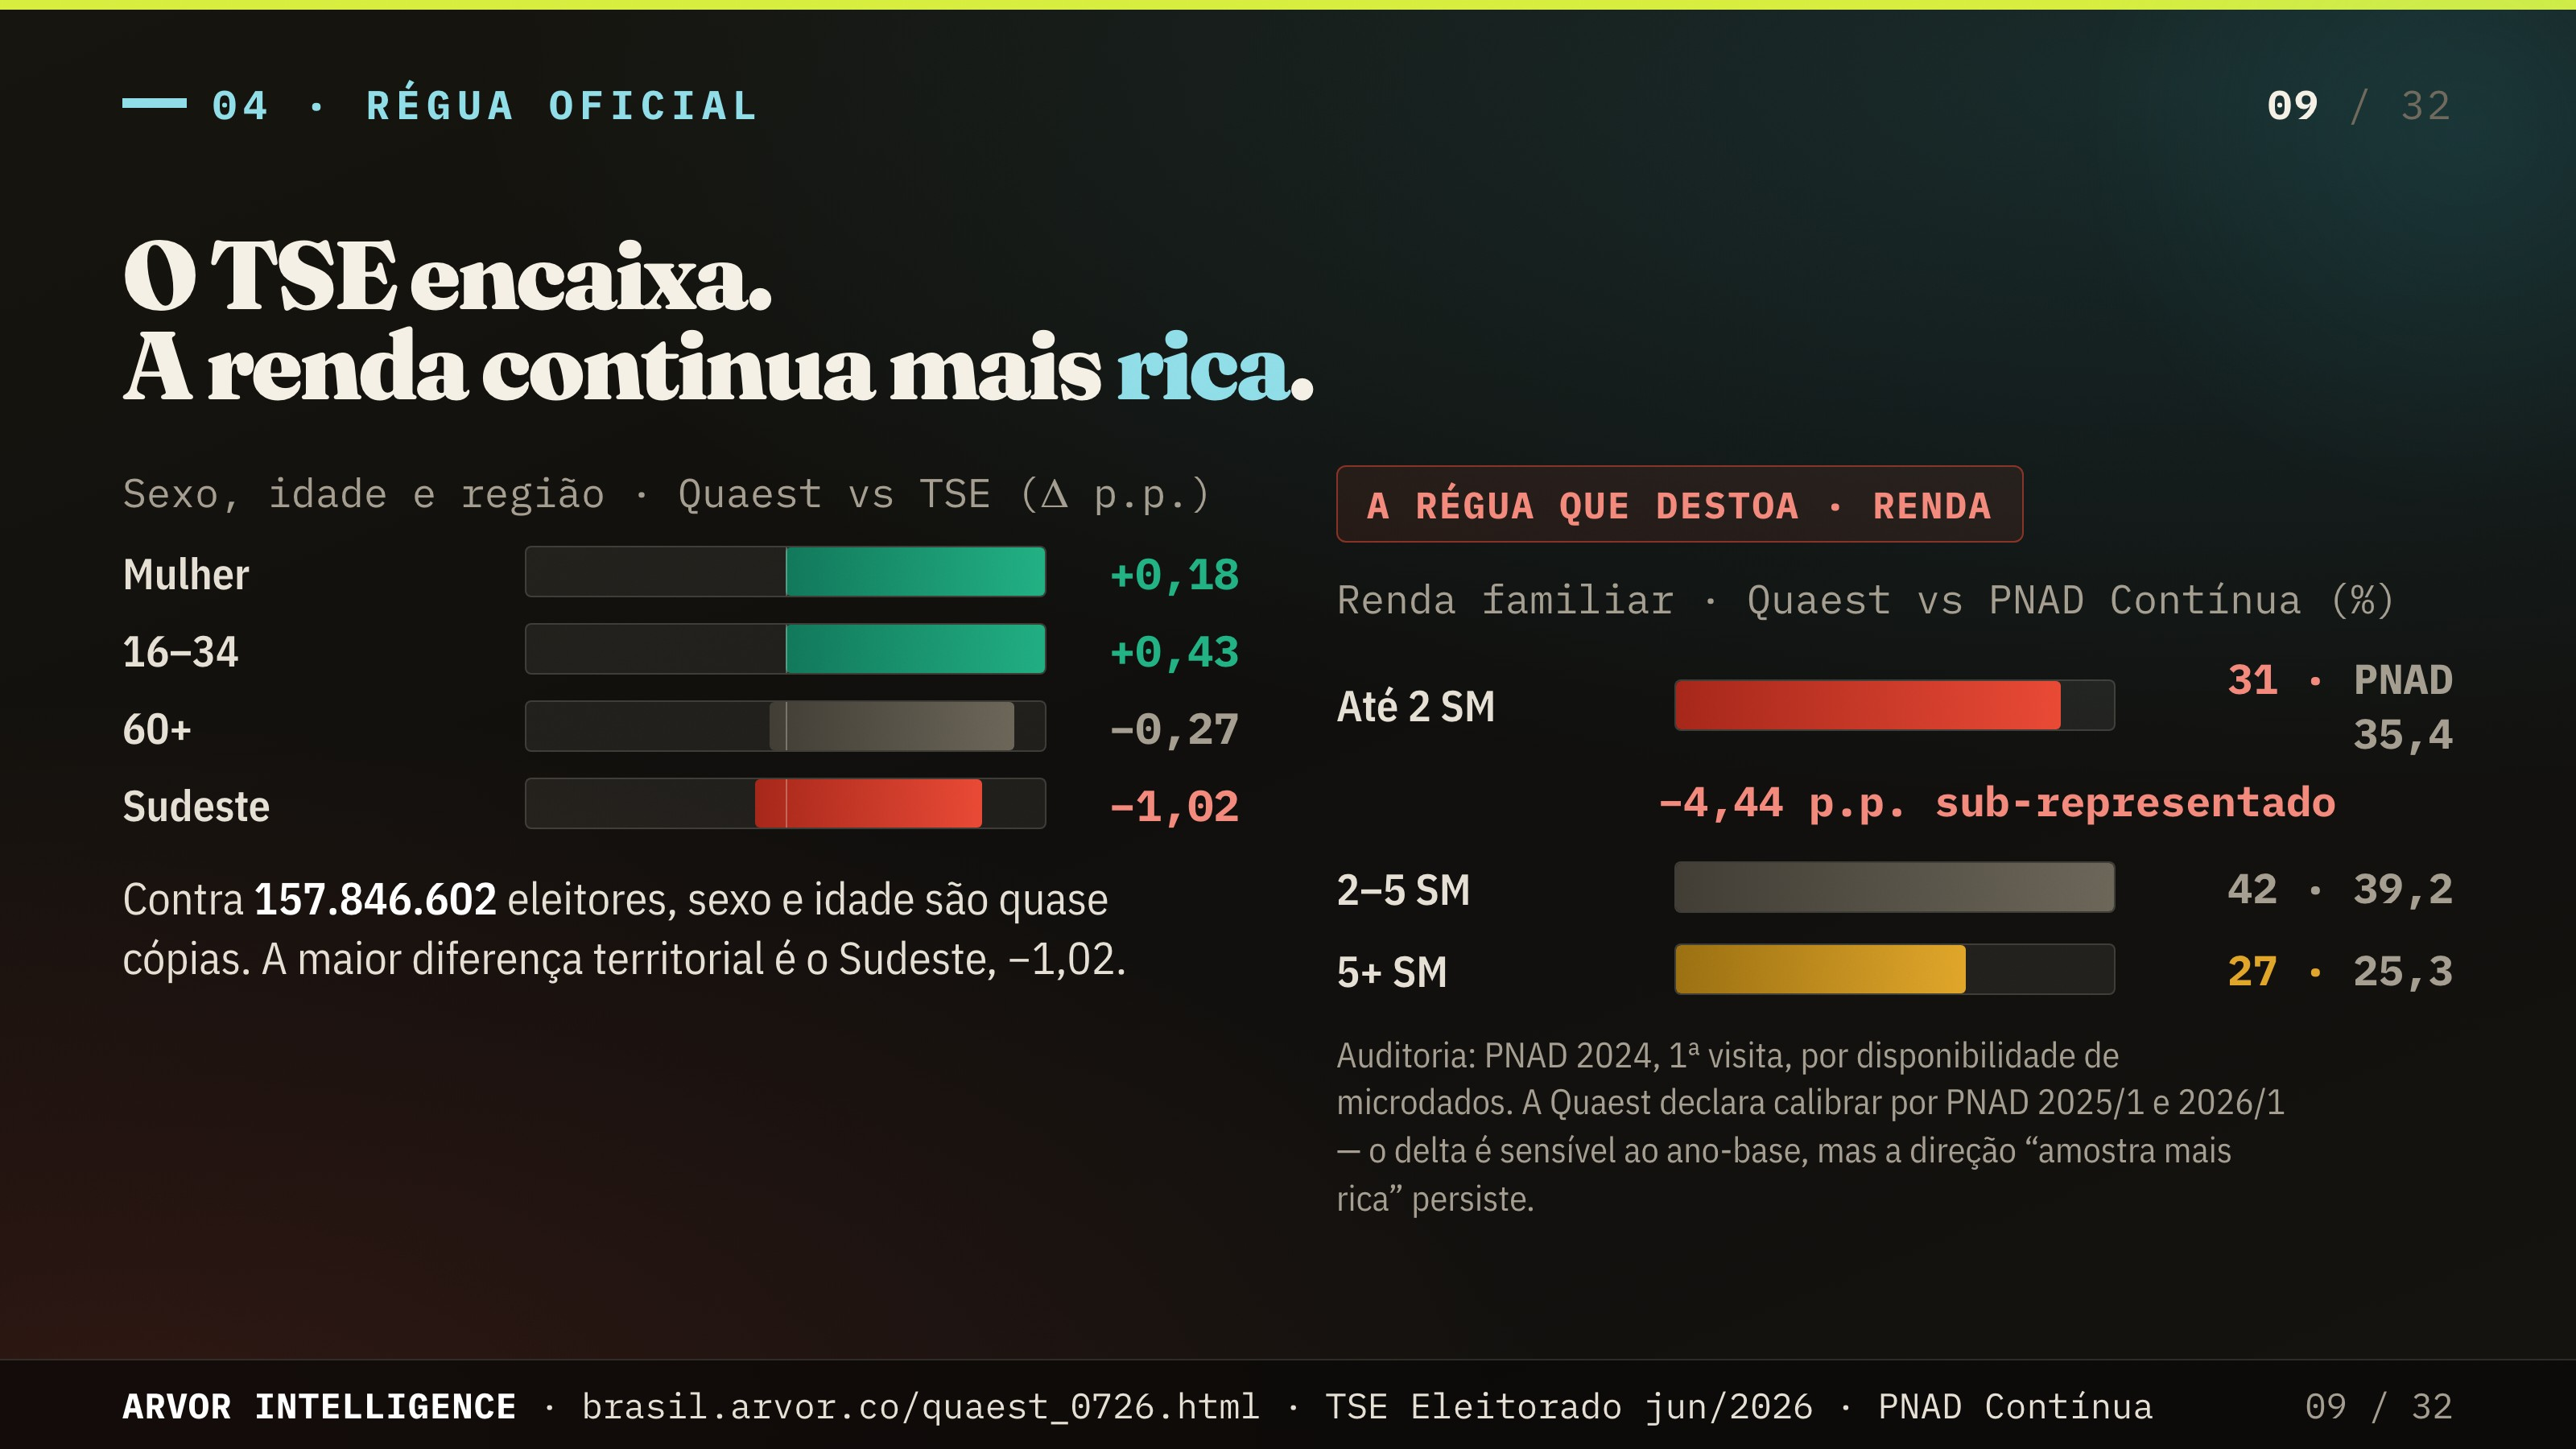
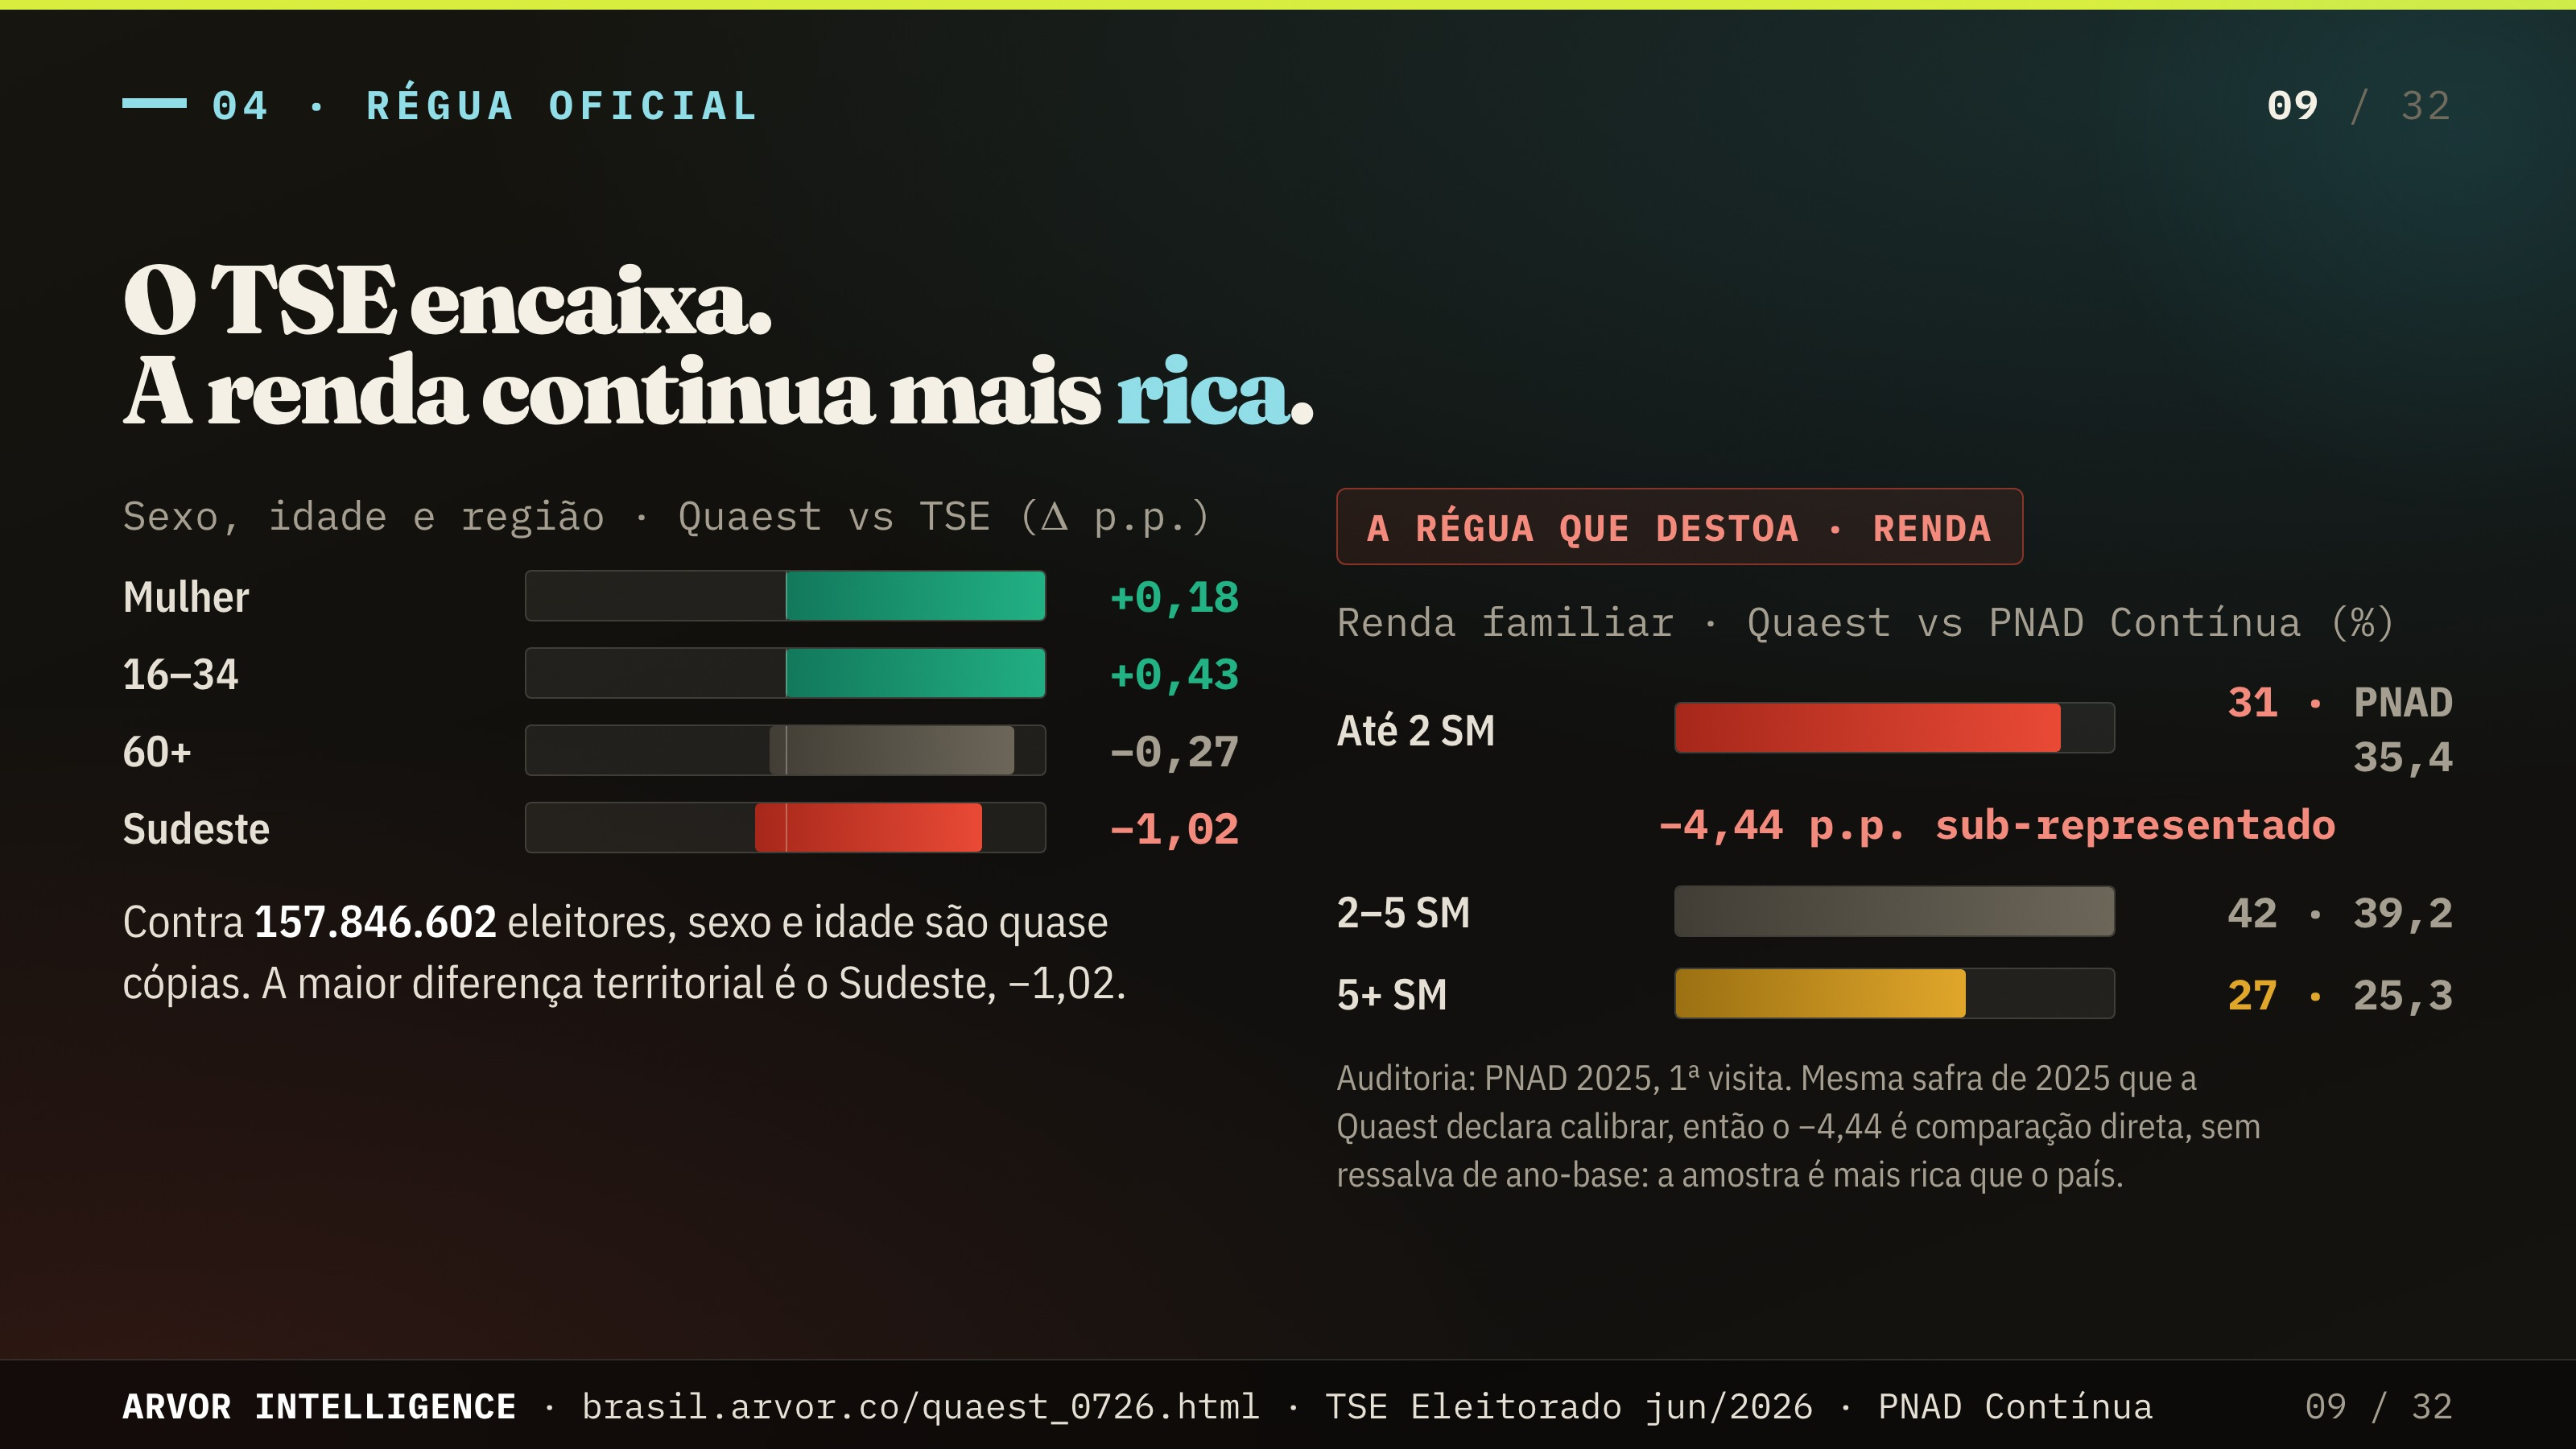
Quaest 07/26: corrigir rótulo do ano-base PNAD (a régua já era 2025)
- benchmark de renda sempre foi calculado sobre a PNADC 2025 v1; o rótulo dizia 2024
- post 9 reescrito sem a falsa ressalva de vintage; caveat do dossiê vira força
  (mesma safra que a Quaest declara calibrar); slides 9-10 re-renderizados
- script deriva reference_year da própria tabela; manifesto incorpora o suplemento
- guarda para metadata ausente no leitor de PDF

Entire-Checkpoint: 0112ab0fae9f

Changed region(s): [[0.0312, 0.3111, 0.9688, 0.6844], [0.5, 0.4667, 0.9688, 0.84], [0.0312, 0.1556, 0.5312, 0.3111]]

diff --git a/docs/quaest_0726_thread.html b/docs/quaest_0726_thread.html
@@ -227,15 +227,15 @@ Veredito calibrado: anomalia registrável, não prova de fraude. Sem a base do s
   <div class="post-label">Post 9/32 · régua oficial · TSE e renda</div>
   <div class="card">
     <div class="frameshell"><iframe class="slideframe" src="quaest_0726_slides.html?slide=9" loading="lazy" title="Slide 09: O TSE encaixa, a renda destoa" scrolling="no"></iframe></div>
-    <div class="copy"><span class="cc">1439 caracteres</span>A régua oficial encaixa em parte e destoa em parte, e as duas coisas contam, então vou dar as duas.
+    <div class="copy"><span class="cc">1399 caracteres</span>A régua oficial encaixa em parte e destoa em parte, e as duas coisas contam, então vou dar as duas.
 
 Contra os 157.846.602 eleitores residentes do painel do TSE, competência junho, o sexo e a idade da amostra Quaest são quase cópias: mulher com diferença de +0,18, faixa de 16 a 34 anos +0,43, faixa 60+ com −0,27. A maior diferença territorial é o Sudeste, com −1,02 ponto. Isso é bom trabalho de campo, e eu registro sem ressalva: o instituto sabe montar cota demográfica.
 
 A régua de renda familiar é outra história. A amostra sub-representa quem ganha até 2 salários mínimos em 4,44 pontos ante a PNAD Contínua, 31% contra 35,4%, e sobra nas faixas mais altas. É, em suma, uma amostra mais rica que o país.
 
-Uma ressalva de rigor minha, porque também audito o auditor: usei a PNAD 2024, 1ª visita, por disponibilidade de microdados; a Quaest declara calibrar por edições de 2025 e 2026. O delta exato é sensível ao ano-base, mas a direção “amostra mais rica” persiste em qualquer base recente, e renda anda junto com voto.
+Um ponto de rigor, porque também audito o auditor: uso a PNAD Contínua anual, 1ª visita, de 2025, a mesma safra que a Quaest declara calibrar na ficha técnica. Não há mais descompasso de ano-base, o 4,44 é comparação direta, mesma régua, e a leitura de amostra mais rica deixa de ter asterisco. Renda anda junto com voto, e agora sem ressalva.
 
-E aqui aparece um duplo padrão que vale nomear. Para a renda, a própria Quaest teria uma régua mais nova que a minha. Ótimo. Então que publique os pesos e as metas de calibração, e a discussão acaba em cinco minutos: eu recalculo com a régua dela e a gente vê quem está certo. É exatamente o que eu peço desde junho, e não veio. Enquanto não vier, a divergência fica sem árbitro, por opção de quem tem o dado.</div>
+E fica de pé o pedido que faço desde junho, agora sem o contra-argumento do ano-base: publiquem os pesos e as metas de calibração. Com a régua no mesmo vintage de 2025, se a Quaest tem número melhor, basta mostrar as metas e eu recalculo em cinco minutos. Enquanto o dado não vem, a divergência fica sem árbitro, por opção de quem tem o dado.</div>
     <button class="copy-btn" type="button" onclick="cp(this)">Copiar texto</button>
   </div>
 </section>

diff --git a/docs/quaest_0726.html b/docs/quaest_0726.html
@@ -365,7 +365,7 @@
         </div>
         <div class="data-note reveal">
           <span class="tag inferencia" style="margin-bottom:8px">Nota de ano-base</span>
-          <p style="margin:0"><strong>Descompasso de edição declarado com transparência:</strong> esta auditoria usa a PNAD Contínua anual, 1ª visita, <strong>2024</strong>, por disponibilidade de microdados com 200 pesos replicados. A ficha técnica da Quaest (relatório, p. 3) declara calibrar por “TSE 2026, PNAD 2026/1, PNAD 2025/1, CENSO 2022” — edições mais recentes. A distribuição de renda em SM pode ter deslocado entre 2024 e 2025/26, então o −4,44 p.p. não é rigorosamente apples-to-apples com a referência que a Quaest diz usar. Sinalizamos o delta como sensível ao ano-base; sem os microdados da Quaest, não há como reponderar o voto.</p>
+          <p style="margin:0"><strong>Mesmo vintage da Quaest, sem ressalva de ano-base:</strong> esta auditoria usa a PNAD Contínua anual, 1ª visita, <strong>2025</strong>, com 200 pesos replicados. A ficha técnica da Quaest (relatório, p. 3) declara calibrar por “TSE 2026, PNAD 2026/1, PNAD 2025/1, CENSO 2022”. Estamos na mesma safra de 2025 que o próprio instituto lista, então o −4,44 p.p. é comparação direta, apples-to-apples, e deixa de carregar o caveat de edição. O que segue faltando é o microdado de calibração da Quaest: sem os pesos e as metas dela, não há como reponderar o voto.</p>
         </div>
       </div>
     </section>
@@ -438,7 +438,7 @@
           <strong>Veredito — resultado que inocenta</strong>
           <p>A renda <strong>não explica o placar</strong>. Reponderar a amostra ao perfil do país move a disputa Lula×Flávio menos de 1 ponto em todo cenário — dentro do ruído do método, e no sentido pró-Lula. Publicamos assim porque o resultado valeria nos dois sentidos: aqui ele encolhe a hipótese da renda em vez de reforçá-la. Caveat honesto: uma dimensão só, sem microdados, sem interação com região ou idade.</p>
         </div>
-        <p class="caption reveal">Alvo PNAD: PNADC anual 1ª visita 2024, 16+ com renda domiciliar válida, deflacionada a abr/2026 (SM R$ 1.621). Contas reproduzíveis em <span class="mono">quaest_0726_rejeicao_reponderacao.json</span>.</p>
+        <p class="caption reveal">Alvo PNAD: PNADC anual 1ª visita 2025, 16+ com renda domiciliar válida, deflacionada a abr/2026 (SM R$ 1.621). Contas reproduzíveis em <span class="mono">quaest_0726_rejeicao_reponderacao.json</span>.</p>
       </div>
     </section>
 

diff --git a/docs/quaest_0726_slides.html b/docs/quaest_0726_slides.html
@@ -520,7 +520,7 @@ svg{display:block;overflow:visible}
           <div class="bar" style="grid-template-columns:190px 1fr 190px"><span class="nm" style="font-size:27px">2–5 SM</span><div class="track"><div class="fill muted" style="width:100%"></div></div><span class="val muted" style="font-size:26px">42 · <span class="dim">39,2</span></span></div>
           <div class="bar" style="grid-template-columns:190px 1fr 190px"><span class="nm" style="font-size:27px">5+ SM</span><div class="track"><div class="fill gold" style="width:66%"></div></div><span class="val gold" style="font-size:26px">27 · <span class="dim">25,3</span></span></div>
         </div>
-        <p class="dim" style="margin-top:20px;font-size:22px;line-height:1.35;max-width:600px">Auditoria: PNAD 2024, 1ª visita, por disponibilidade de microdados. A Quaest declara calibrar por PNAD 2025/1 e 2026/1 — o delta é sensível ao ano-base, mas a direção “amostra mais rica” persiste.</p>
+        <p class="dim" style="margin-top:20px;font-size:22px;line-height:1.35;max-width:600px">Auditoria: PNAD 2025, 1ª visita. Mesma safra de 2025 que a Quaest declara calibrar, então o −4,44 é comparação direta, sem ressalva de ano-base: a amostra é mais rica que o país.</p>
       </div>
     </div>
   </div>
@@ -567,7 +567,7 @@ svg{display:block;overflow:visible}
       </div>
     </div>
   </div>
-  <div class="foot"><span class="brand"><b>ARVOR INTELLIGENCE</b> · brasil.arvor.co/quaest_0726.html · alvo PNADC anual 1ª visita 2024</span><span class="src">10 / 32</span></div>
+  <div class="foot"><span class="brand"><b>ARVOR INTELLIGENCE</b> · brasil.arvor.co/quaest_0726.html · alvo PNADC anual 1ª visita 2025</span><span class="src">10 / 32</span></div>
 </section></div>
 
 <div class="frame" data-n="11"><section class="slide" id="sCAL">

diff --git a/docs/assets/quaest_0726_rejeicao_reponderacao_fragment.html b/docs/assets/quaest_0726_rejeicao_reponderacao_fragment.html
@@ -196,7 +196,7 @@
 
     <p class="foot sans">Perícia Arvor · <a href="https://brasil.arvor.co">brasil.arvor.co</a> ·
       dados e contas reproduzíveis em <span class="mono">quaest_0726_rejeicao_reponderacao.json</span>.
-      Alvo PNAD: PNADC anual 1ª visita 2024, 16+ com renda domiciliar válida, deflacionada a abr/2026 (SM R$ 1.621).</p>
+      Alvo PNAD: PNADC anual 1ª visita 2025, 16+ com renda domiciliar válida, deflacionada a abr/2026 (SM R$ 1.621).</p>
   </div>
 
   <script>

diff --git a/scripts/quaest-july-audit.py b/scripts/quaest-july-audit.py
@@ -241,7 +241,9 @@ def questionnaire_diagnostics() -> dict:
         "expected_question_count": 101,
         "cover_project": "OP093/25 – GENIAL INVESTIMENTOS",
         "cover_month": "JUNHO/2026",
-        "pdf_metadata_title": PdfReader(SOURCE / QUESTIONNAIRE).metadata.title,
+        "pdf_metadata_title": getattr(
+            PdfReader(SOURCE / QUESTIONNAIRE).metadata, "title", None
+        ),
         "template_residue": _count_template_residue(july),
         "typos": {"sm_ja_sabia": july.upper().count("SM, JÁ SABIA")},
         "privacy": {
@@ -354,6 +356,12 @@ def pnad_income() -> dict:
     total = 0.0
     persons = 0
     with sqlite3.connect(PNAD_DB) as connection:
+        reference_years = sorted(
+            int(value)
+            for (value,) in connection.execute(
+                f"SELECT DISTINCT Ano__ano_de_referencia FROM {table}"
+            )
+        )
         for row in connection.execute(query):
             income, base_value, *rep_values = row
             income = float(income)
@@ -378,8 +386,10 @@ def pnad_income() -> dict:
             {"category": label, "quaest": target, "delta": round(target - estimate, 3)}
         )
         results.append(item)
+    reference_year = reference_years[-1]
     return {
-        "source": "PNAD Contínua anual, 1ª visita, 2024",
+        "source": f"PNAD Contínua anual, 1ª visita, {reference_year}",
+        "reference_year": reference_year,
         "universe": "pessoas de 16 anos ou mais com renda efetiva domiciliar válida",
         "income_target": "abril de 2026",
         "minimum_wage": 1621,

diff --git a/docs/assets/quaest_0726_rejeicao_reponderacao_notes.md b/docs/assets/quaest_0726_rejeicao_reponderacao_notes.md
@@ -50,7 +50,7 @@ tesoura não é Flávio subir (56→57, dentro da margem) — é **Lula cair** (
 **Método.** Reponderação marginal de tabela publicada. A Quaest só publica renda em
 aprovação (p15) e 1º turno (p29); o 2º turno por renda **não existe no deck** (cenário 2T
 é PROXY multiplicativo, nível hipótese). Amostra Quaest 31/42/27 → alvo PNAD 35,44/39,23/25,33
-(PNADC anual v1 2024, 16+ com renda válida, abr/2026). `share_repond = Σ share_faixa × peso_alvo`.
+(PNADC anual v1 2025, 16+ com renda válida, abr/2026). `share_repond = Σ share_faixa × peso_alvo`.
 O "publicado reconstruído" reproduz o topline (aprovação 48/47; 1T Lula ~41 vs 40).
 
 **Deltas (reponderado − publicado):**